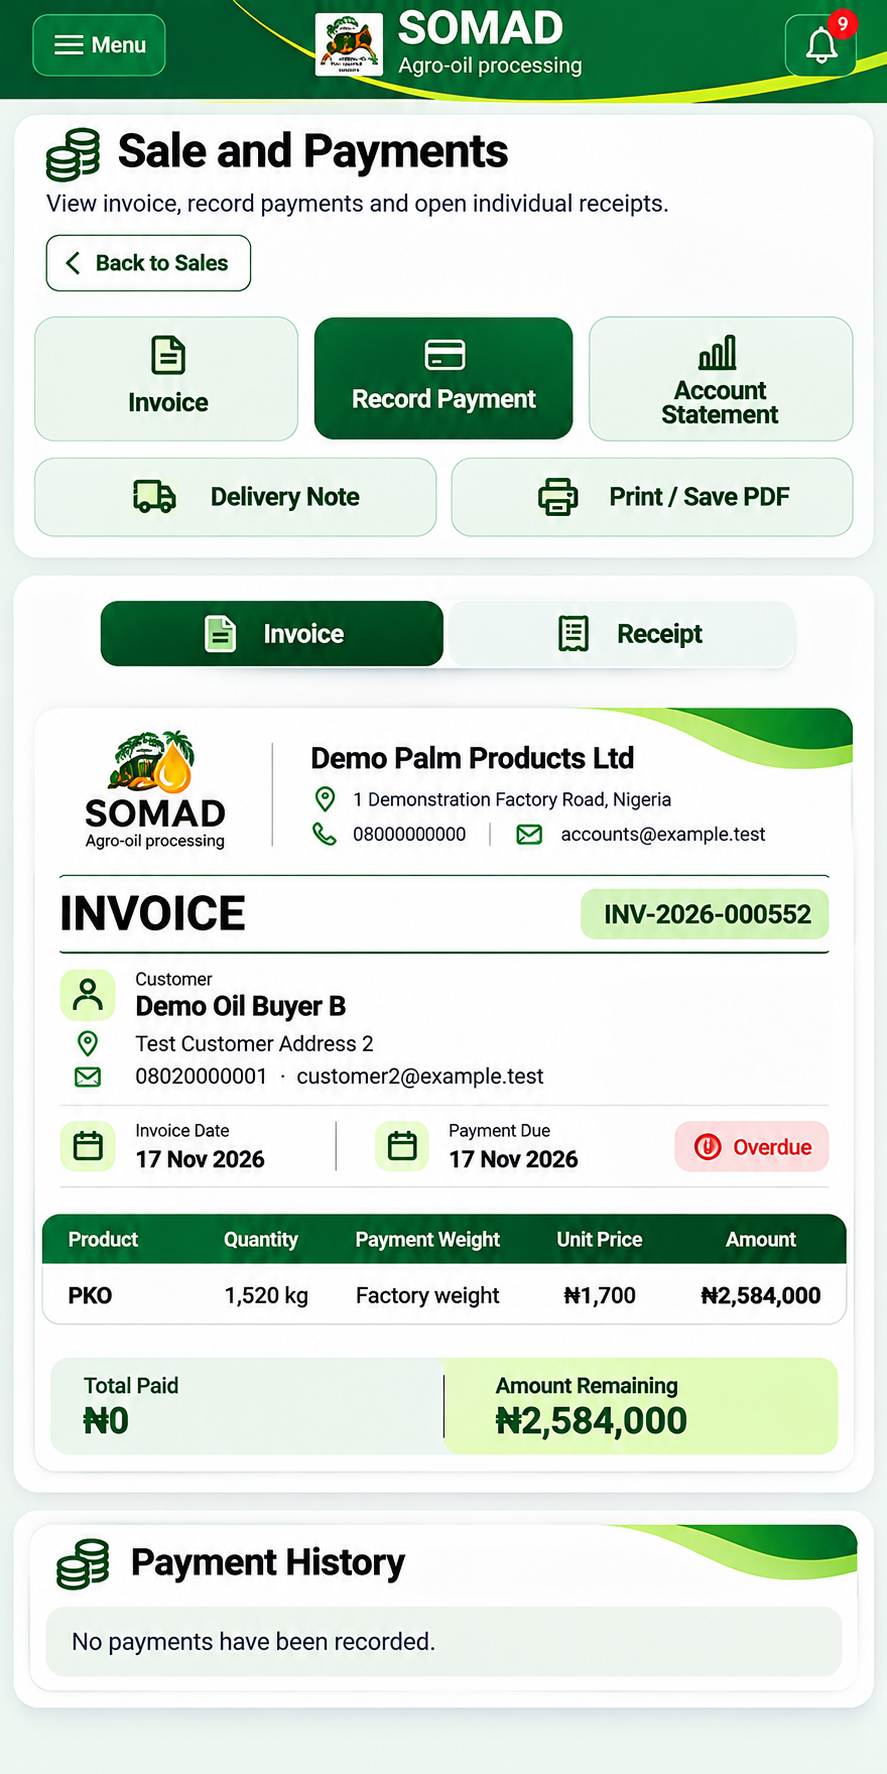
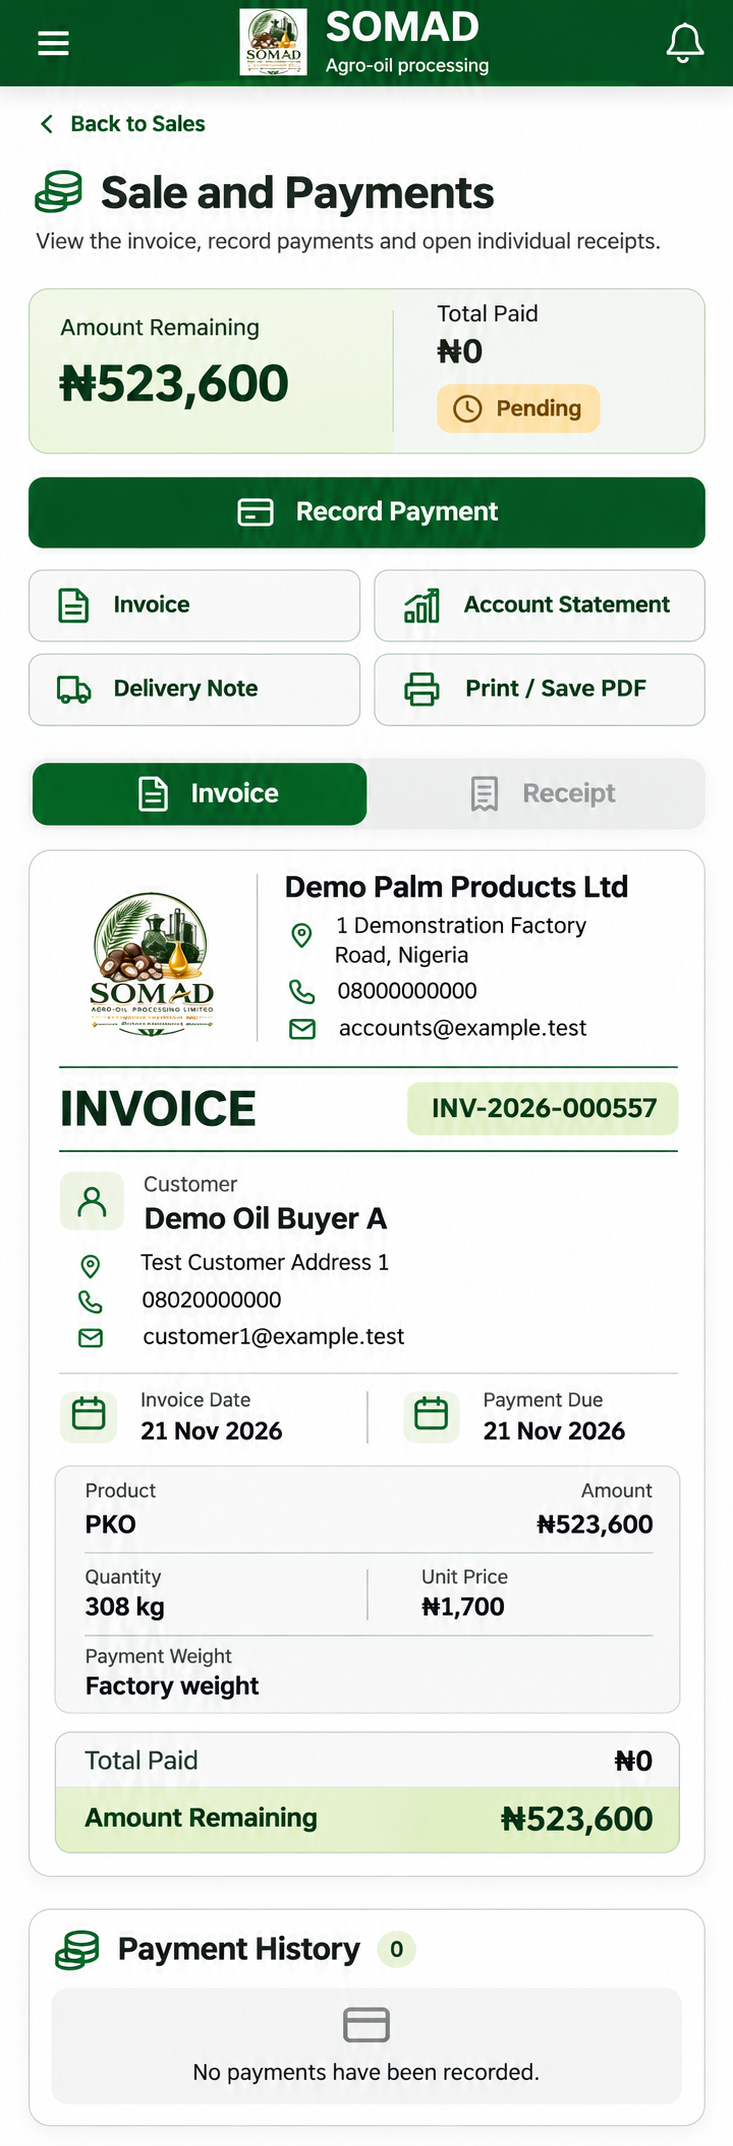
Restyle the Sale and Payments page to match images/sales_details.png
- Back to Sales as a plain link above the title.
- New summary box: Amount Remaining, Total Paid and the payment status.
- Record Payment full width, then Invoice, Account Statement, Delivery Note
  and Print / Save PDF as a 2x2 grid of white buttons.
- On screen the invoice item is a card (product and amount, quantity and
  unit price, payment weight) and totals are stacked rows with Amount
  Remaining highlighted; the printed A4 invoice keeps its table.
- Payment History shows a payment count and an empty state with an icon.

diff --git a/public/css/sale-documents.css b/public/css/sale-documents.css
@@ -223,3 +223,88 @@
     #sale-document .sale-doc-party>strong{margin:2px 0 4px}
     #sale-document .sale-print-customer .sale-doc-status{font-size:1rem}
 }
+
+/* Phone design from images/sales_details.png (screen only; the printed A4 copy above is unchanged). */
+@media screen{
+    /* Back link above a plain title. */
+    #sale-document .sale-document-heading{display:flex;flex-direction:column;gap:4px}
+    #sale-document .sale-document-heading>a{order:-1;align-self:flex-start;gap:8px;margin:0 0 10px;padding:4px 0;border:0;background:none;color:var(--sd-dark);font-size:1.05rem}
+    #sale-document .sale-document-heading>a .ui-icon svg{width:20px;height:20px;stroke-width:2.4}
+    #sale-document .sale-document-heading p{margin:4px 0 0;color:var(--sd-muted)}
+
+    /* Summary: amount remaining on the left, total paid and status on the right. */
+    #sale-document .sale-summary-card{display:grid;grid-template-columns:minmax(0,1.25fr) minmax(0,1fr);overflow:hidden;border:1px solid #c7e0bb;border-radius:16px;background:#fff}
+    #sale-document .sale-summary-card:empty{display:none}
+    #sale-document .sale-summary-remaining{display:grid;align-content:center;gap:6px;padding:18px 20px;background:linear-gradient(110deg,#e7f4dc,#f4faef)}
+    #sale-document .sale-summary-paid{display:grid;align-content:center;justify-items:start;gap:6px;padding:14px 18px;border-left:1px solid #d6e6d0;background:linear-gradient(110deg,#f4faef,#fbfdf9)}
+    #sale-document .sale-summary-card span{font-size:.98rem;color:var(--sd-text)}
+    #sale-document .sale-summary-remaining strong{font-size:clamp(1.7rem,8.4vw,2.5rem);font-weight:900;line-height:1.1;color:var(--sd-text);overflow-wrap:anywhere}
+    #sale-document .sale-summary-paid>strong{font-size:clamp(1.2rem,5.4vw,1.5rem);font-weight:900;color:var(--sd-text)}
+    #sale-document .sale-summary-paid .sale-doc-status{padding:6px 12px;font-size:.95rem}
+
+    /* Record Payment full width, then a 2 x 2 grid of white buttons with the icon beside the label. */
+    #sale-document .sale-document-actions{grid-template-columns:repeat(2,minmax(0,1fr));gap:10px}
+    #sale-document .sale-document-actions button,
+    #sale-document .sale-document-actions .open-delivery-note,
+    #sale-document .sale-document-actions #print-sale-document,
+    #sale-document .sale-document-actions:has(#record-sale-payment[hidden]) :is(#show-sale-invoice,#show-sale-statement){
+        grid-column:auto;flex-direction:row;justify-content:flex-start;gap:14px;min-height:58px;padding:10px 16px;
+        border:1px solid #cfd8d1;border-radius:12px;background:#fff;color:var(--sd-dark);font-size:1rem;white-space:nowrap}
+    #sale-document .sale-document-actions button .ui-icon svg{width:26px;height:26px;stroke:var(--sd-green)}
+    /* A long label such as Account Statement wraps inside its button on narrow phones instead of being cut off. */
+    #sale-document .sale-document-actions button{min-width:0;white-space:normal;text-align:left;line-height:1.2}
+    #sale-document .sale-document-actions button .ui-icon{flex:0 0 auto}
+    #sale-document .sale-document-actions #record-sale-payment{order:-1;grid-column:1/-1;justify-content:center;min-height:58px;border-color:var(--sd-dark);background:linear-gradient(135deg,var(--sd-dark),var(--sd-green));color:#fff;font-size:1.08rem}
+    #sale-document .sale-document-actions #record-sale-payment .ui-icon svg{stroke:#fff}
+    /* With no delivery note the print button takes the whole last row. */
+    #sale-document .sale-document-actions:not(:has(.open-delivery-note:not([hidden]))) #print-sale-document{grid-column:1/-1;justify-content:center}
+
+    /* Document card without the corner decoration. */
+    #sale-document .sale-document-panel{padding:0;background:none;box-shadow:none}
+    #sale-document .sale-doc-tabs{max-width:none}
+    #sale-document .sale-print-area{gap:14px;padding:18px 18px 18px}
+    #sale-document .sale-print-area::before,#sale-document .sale-payment-history::before{display:none}
+    #sale-document .sale-print-title{border-top-width:2px;border-bottom-width:2px}
+
+    /* Invoice and payment due dates side by side. */
+    #sale-document .sale-print-meta{grid-template-columns:repeat(2,minmax(0,1fr));border-bottom:0}
+
+    /* Item card. */
+    #sale-document .sale-item-card{display:grid;padding:4px 18px;border:1px solid var(--sd-line);border-radius:14px;background:#fff}
+    #sale-document .sale-item-row{display:grid;gap:10px;padding:10px 0}
+    #sale-document .sale-item-row+.sale-item-row{border-top:1px solid var(--sd-line)}
+    #sale-document .sale-item-top,#sale-document .sale-item-pair{grid-template-columns:minmax(0,1fr) minmax(0,1fr)}
+    #sale-document .sale-item-row>div{display:grid;gap:2px;padding:0;border:0;background:none}
+    #sale-document .sale-item-pair>div+div{padding-left:16px;border-left:1px solid var(--sd-line)}
+    #sale-document .sale-item-amount{justify-items:end;text-align:right}
+    #sale-document .sale-print-area .sale-item-row span{font-size:.88rem;color:var(--sd-muted)}
+    #sale-document .sale-print-area .sale-item-row strong{margin:0;font-size:1.1rem;font-weight:800;color:var(--sd-text)}
+    #sale-document .sale-item-row small:empty{display:none}
+
+    /* Totals stacked: Total Paid, then Amount Remaining highlighted. */
+    #sale-document .sale-document-totals{grid-template-columns:1fr;border:1px solid #c7e0bb;background:#fff}
+    #sale-document .sale-document-totals>div{display:flex;align-items:center;justify-content:space-between;gap:12px;padding:10px 18px}
+    #sale-document .sale-document-totals>div+div{border-left:0;border-top:1px solid #d6e6d0}
+    #sale-document .sale-print-area .sale-document-totals span{font-size:1rem}
+    #sale-document .sale-print-area .sale-document-totals strong{font-size:1.1rem;font-weight:800;text-align:right}
+    #sale-document .sale-document-totals .is-balance{background:linear-gradient(110deg,#dff0cf,#eef7e6)}
+    #sale-document .sale-print-area .sale-document-totals .is-balance :is(span,strong){color:var(--sd-dark);font-weight:800}
+    #sale-document .sale-print-area .sale-document-totals .is-balance strong{font-size:clamp(1.25rem,5.6vw,1.6rem);font-weight:900}
+
+    /* Payment history: title with a count badge and a quiet empty state. */
+    #sale-document .sale-payment-history{border:1px solid var(--sd-line);box-shadow:none}
+    #sale-document .sale-payment-count{display:inline-grid;place-items:center;min-width:32px;height:32px;padding:0 8px;border-radius:16px;background:var(--sd-lime);color:var(--sd-dark);font-size:1rem;font-weight:800}
+    #sale-document .sale-payment-list .sale-doc-empty{display:grid;justify-items:center;gap:8px;padding:20px 16px;text-align:center;background:#f1f3f1}
+    #sale-document .sale-payment-list .sale-doc-empty .ui-icon{width:40px;height:40px}
+    #sale-document .sale-payment-list .sale-doc-empty .ui-icon svg{width:40px;height:40px;stroke:#5b6b62}
+}
+@media screen and (max-width:420px){
+    #sale-document .sale-summary-remaining{padding:16px 14px}
+    #sale-document .sale-summary-paid{padding:12px}
+    #sale-document .sale-document-actions button,
+    #sale-document .sale-document-actions .open-delivery-note,
+    #sale-document .sale-document-actions #print-sale-document{gap:8px;padding:10px 10px;font-size:.9rem}
+    #sale-document .sale-document-actions button .ui-icon svg{width:22px;height:22px}
+    #sale-document .sale-item-card{padding:2px 14px}
+}
+@media print{#sale-document .sale-summary-card{display:none!important}}

diff --git a/public/js/forms.js b/public/js/forms.js
@@ -1875,8 +1875,7 @@ function showSaleInvoice() {
 	const dates=createDocumentText('div','sale-print-meta doc-screen-only');
 	dates.append(
 		withDocumentIcon(createCardValues('Invoice Date',formatDate(sale.sales_date)),'calendar'),
-		withDocumentIcon(createCardValues('Payment Due',dueDate),'calendar'),
-		documentStatusBadge(summary.status)
+		withDocumentIcon(createCardValues('Payment Due',dueDate),'calendar')
 	);
 	const basis=sale.billing_basis==='Customer'?'Customer’s agreed weight':'Factory weight';
 	const item=buildSaleDocumentTable(
@@ -1884,6 +1883,17 @@ function showSaleInvoice() {
 		[['1',sale.item,formatNumber(sale.quantity)+' kg',basis,'₦'+formatNumber(sale.unit_price),'₦'+formatNumber(summary.total)]],
 		true
 	);
+	item.classList.add('doc-print-only');
+	// On screen the item is a card: product and amount, quantity and unit price, then payment weight.
+	const itemCard=createDocumentText('div','sale-item-card doc-screen-only');
+	const itemTop=createDocumentText('div','sale-item-row sale-item-top');
+	const amount=createCardValues('Amount','₦'+formatNumber(summary.total));amount.classList.add('sale-item-amount');
+	itemTop.append(createCardValues('Product',sale.item),amount);
+	const itemPair=createDocumentText('div','sale-item-row sale-item-pair');
+	itemPair.append(createCardValues('Quantity',formatNumber(sale.quantity)+' kg'),createCardValues('Unit Price','₦'+formatNumber(sale.unit_price)));
+	const itemBasis=createDocumentText('div','sale-item-row');
+	itemBasis.append(createCardValues('Payment Weight',basis));
+	itemCard.append(itemTop,itemPair,itemBasis);
 	const terms=createDocumentText('div','sale-doc-terms doc-print-only');
 	const termList=document.createElement('ul');
 	['Payment due on or before '+dueDate+'.',
@@ -1901,7 +1911,7 @@ function showSaleInvoice() {
 	printArea.replaceChildren(
 		buildSaleDocumentHeading(data,'INVOICE',sale.invoice_number,[['Invoice No',sale.invoice_number],['Invoice Date',formatDate(sale.sales_date)],['Payment Due',dueDate]]),
 		buildSaleDocumentParty(data,'Customer','Bill To:',summary.status,false,'Status: '+summary.status),
-		dates,item,summaryRow,
+		dates,itemCard,item,summaryRow,
 		buildSaleDocumentSignoff([['Issued By'],['Authorised By']],false),
 		createDocumentText('p','sale-doc-thanks doc-print-only','Thank you for your business.')
 	);
@@ -2048,12 +2058,24 @@ function openPaymentReversalDialog(payment) {
 	dialog.showModal();
 }
 
+// The box under the page title: amount remaining, total paid and the payment status.
+function renderSaleSummaryCard(sale) {
+	const box=document.querySelector('#sale-document .sale-summary-card');
+	if(!box) return;
+	const summary=salePaymentSummary(sale);
+	const remaining=createDocumentText('div','sale-summary-remaining');
+	remaining.append(createDocumentText('span','','Amount Remaining'),createDocumentText('strong','','₦'+formatNumber(summary.remaining)));
+	const paid=createDocumentText('div','sale-summary-paid');
+	paid.append(createDocumentText('span','','Total Paid'),createDocumentText('strong','','₦'+formatNumber(summary.paid)),documentStatusBadge(summary.status));
+	box.replaceChildren(remaining,paid);
+}
+
 // Fetches and displays the selected sale, its invoice and payment history.
 async function loadSaleDocument() {
 	const saleId=new URLSearchParams(window.location.search).get('saleId');
 	if(!saleId) return;
 	const page=document.querySelector('#sale-document');
-    currentSaleDocumentData=null;page.querySelector('.sale-print-area').replaceChildren();
+    currentSaleDocumentData=null;page.querySelector('.sale-print-area').replaceChildren();page.querySelector('.sale-summary-card').replaceChildren();
 	const response=await fetch('/api/sales/'+saleId+'/invoice');
     if(response.status===409){window.openDeliveryNote(saleId);return;}
 	const data=await response.json();
@@ -2062,11 +2084,17 @@ async function loadSaleDocument() {
 		return;
 	}
 	currentSaleDocumentData=data;
+	renderSaleSummaryCard(data.sale);
 	const role=document.documentElement.dataset.userRole;
 	page.querySelector('#record-sale-payment').hidden=role==='storekeeper';
 	const paymentList=page.querySelector('.sale-payment-list');
 	paymentList.replaceChildren();
-	if(data.payments.length===0) paymentList.append(createDocumentText('p','sale-doc-empty','No payments have been recorded.'));
+	if(data.payments.length===0) paymentList.append(withDocumentIcon(createDocumentText('p','sale-doc-empty','No payments have been recorded.'),'card'));
+	// The number of payments sits beside the Payment History title.
+	const historyTitle=page.querySelector('.sale-payment-history h2');
+	let paymentCount=historyTitle.querySelector('.sale-payment-count');
+	if(!paymentCount) { paymentCount=createDocumentText('span','sale-payment-count','');historyTitle.append(paymentCount); }
+	paymentCount.textContent=String(data.payments.length);
 	data.payments.forEach(function(payment,index) {
 		const row=createDocumentText('div','sale-payment-row'+(payment.reversed_at?' is-reversed':''));
 		row.append(

diff --git a/public/html/forms.html b/public/html/forms.html
@@ -638,6 +638,7 @@
 					<div><h1>Sale and Payments</h1><p>View the invoice, record payments and open individual receipts.</p></div>
 					<a href="/forms.html#sales-data">Back to Sales</a>
 				</div>
+				<div class="sale-summary-card" aria-live="polite"></div>
 				<div class="sale-document-actions">
 					<button type="button" id="show-sale-invoice">Invoice</button>
 					<button type="button" id="record-sale-payment">Record Payment</button>
